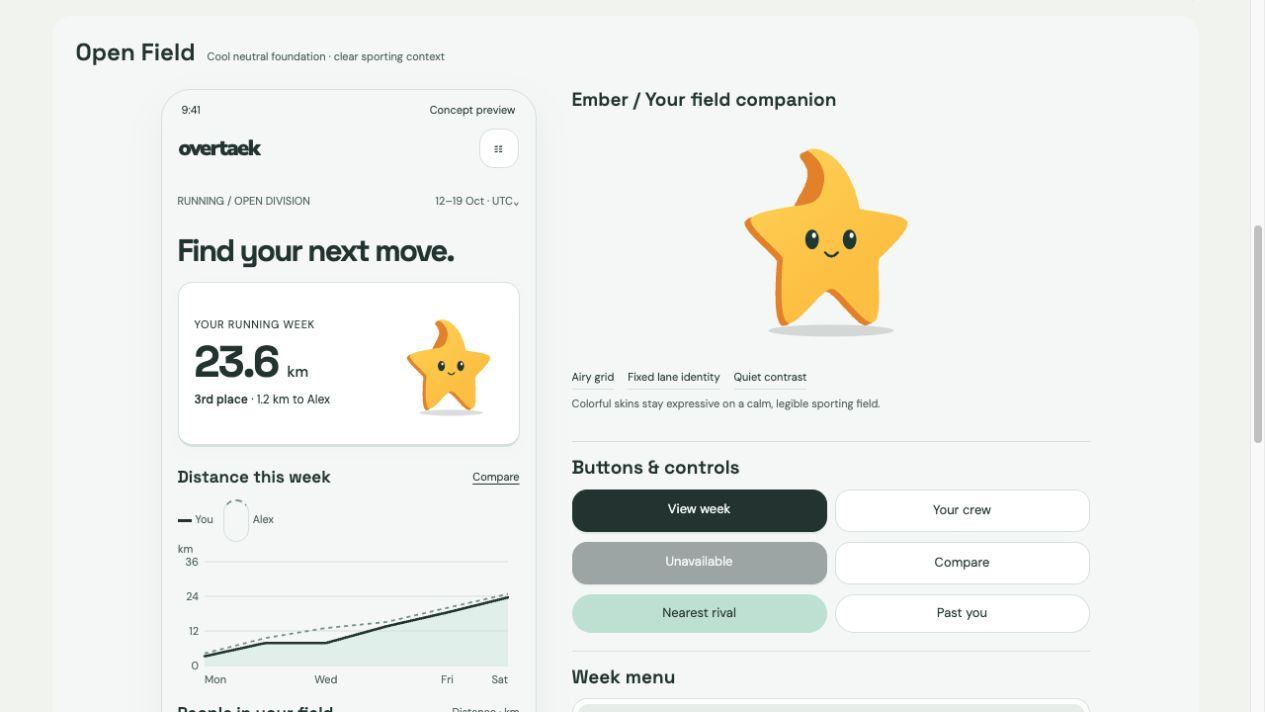
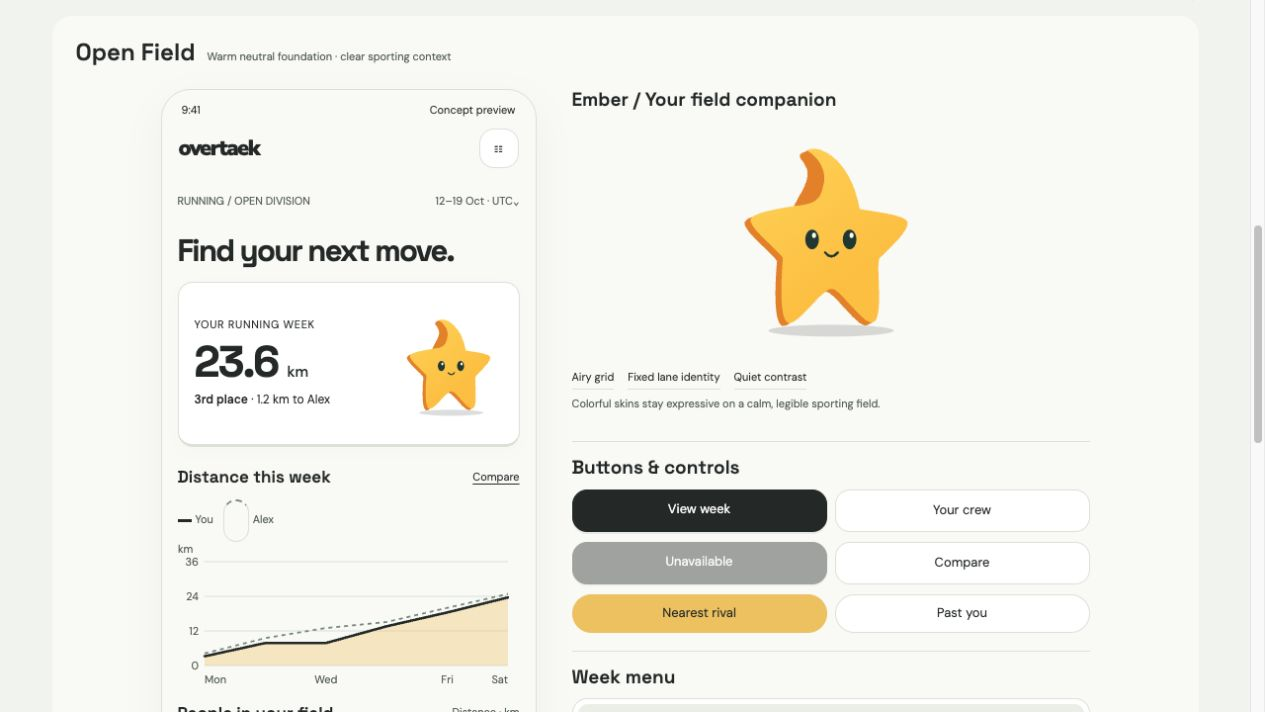
Select warm Open Field direction and document Ember motion strategy

Changed region(s): [[0.1542, 0.8343, 0.4008, 0.9579], [0.4316, 0.8343, 0.6783, 0.8961], [0.1542, 0.0618, 0.37, 0.0927]]

diff --git a/apps/web/src/app/design/_studies/brand-lab/catalog.ts b/apps/web/src/app/design/_studies/brand-lab/catalog.ts
@@ -239,26 +239,26 @@ export const BRAND_CONCEPTS: readonly BrandConcept[] = [
     traits: ["Quiet surfaces", "Soft depth", "Personal finishes"],
     role: "A warm, familiar companion whose skin belongs to the athlete.",
     recommendation:
-      "Recommended: Chain Reaction’s warmth, quieter surfaces, and a little tactile depth.",
+      "The warmer, softer comparison: familiar surfaces with a little tactile depth.",
   },
   {
     id: "open-field",
     name: "Open Field",
     family: "neutral",
     className: "open",
-    premise: "Cool neutral foundation · clear sporting context",
+    premise: "Warm neutral foundation · clear sporting context",
     headline: "Room for every\nversion of you.",
     heading: "Find your next move.",
     eyebrow: "YOUR RUNNING WEEK",
     rankTitle: "People in your field",
     chart: "area",
-    colors: ["#263c37", "#c4e5d7", "#f5f8f7", "#dfe9e4"],
+    colors: ["#282f2c", "#f1c75b", "#fafaf7", "#e6e8e1"],
     fonts: "DM Sans + Space Grotesk",
     emberName: "Your field companion",
     traits: ["Airy grid", "Fixed lane identity", "Quiet contrast"],
     role: "Colorful skins stay expressive on a calm, legible sporting field.",
     recommendation:
-      "The most sport-focused neutral option; the app stays composed as skins get brighter.",
+      "Selected direction: Open Field’s sporting structure with Everyday Club’s warm white, charcoal and gold.",
   },
   {
     id: "pocket-arena",
@@ -411,7 +411,7 @@ export const TERRITORY_ART: Record<string, string> = {
   "play-forward": "play",
   "chain-reaction": "chain",
 };
-export const DEFAULT_CONCEPT = "everyday-club";
+export const DEFAULT_CONCEPT = "open-field";
 export function getConcept(id: string | null | undefined): BrandConcept {
   return (
     BRAND_CONCEPTS.find((c) => c.id === id) ??

diff --git a/apps/web/src/app/design/_studies/brand-lab/brand-gallery.css b/apps/web/src/app/design/_studies/brand-lab/brand-gallery.css
@@ -291,7 +291,8 @@
     monospace;
 }
 .brand-preview .current,
-.brand-preview .everyday {
+.brand-preview .everyday,
+.brand-preview .open {
   --ot-bg: #fafaf7;
   --ot-surface: #fff;
   --ot-ink: #282f2c;
@@ -310,15 +311,6 @@
   --ot-signal: #f5c451;
 }
 .brand-preview .open {
-  --ot-bg: #f5f8f7;
-  --ot-surface: #fff;
-  --ot-ink: #263c37;
-  --ot-muted: #60736c;
-  --ot-signal: #c4e5d7;
-  --ot-on-signal: #263c37;
-  --ot-line: #dbe5df;
-  --ot-soft: #e9f0ec;
-  --ot-secondary: #7d9a8c;
   --ot-radius: 15px;
   --ot-display: var(--font-form), sans-serif;
 }

diff --git a/apps/web/src/app/design/_studies/brand-lab/catalog.test.ts b/apps/web/src/app/design/_studies/brand-lab/catalog.test.ts
@@ -36,7 +36,7 @@ describe("brand gallery review state", () => {
   });
   it("normalizes an unknown deep link without executing or reflecting it", () => {
     expect(parseSelection("<script>", "../../today")).toEqual({
-      concept: "everyday-club",
+      concept: "open-field",
       view: "product",
     });
     expect(parseSelection("chain-reaction", "locker")).toEqual({

diff --git a/docs/brand-study/brand-and-ember-studio.md b/docs/brand-study/brand-and-ember-studio.md
@@ -10,7 +10,7 @@ The [original ten-territory strategy](ten-territories.md) preserves the first-ph
 
 The user favours **Chain Reaction** and **Play Forward**, particularly the former's warmth and the latter's modest dimensionality. The complex, glossy Play Forward mascot is too elaborate for the desired default. The emerging direction is a broadly usable, calmer app with one recognizable star character and optional cosmetic finishes.
 
-The recommendation is **Everyday Club**: warm neutral surfaces, charcoal type, a small fixed golden accent, readable standings, and a little physical depth on key controls. The original Ember is the welcoming default. A personal Ember can become mint, lilac, violet or another finish without recoloring the navigation, affecting chart semantics or replacing the app's brand.
+The selected direction after review is **Open Field with Everyday Club’s palette**: warm neutral surfaces, charcoal type and a small fixed golden accent, combined with Open Field’s airy grid, comparison-first hierarchy and restrained controls. This is an evolution of the existing app rather than a wholesale visual reset. The gallery opens on this combination by default. The original Ember is the welcoming default. A personal Ember can become mint, lilac, violet or another finish without recoloring the navigation, affecting chart semantics or replacing the app's brand.
 
 This separates three decisions:
 
@@ -30,8 +30,8 @@ The ten territories are The Pass, After Hours, Rival Club, Good Pressure, Margin
 
 | Direction | Foundation | Distinctive behavior | Best reason to choose it |
 | --- | --- | --- | --- |
-| Everyday Club — recommended | Warm white, charcoal, small fixed gold accent | Soft controls, subtly raised surfaces, friendly hierarchy | Chain Reaction's human warmth with broad visual compatibility |
-| Open Field | Cool fog, pine type, restrained mint | Airy grid, comparison before standings, a clear sporting field | The most athletic and composed foundation |
+| Everyday Club | Warm white, charcoal, small fixed gold accent | Soft controls, subtly raised surfaces, friendly hierarchy | Chain Reaction's human warmth with broad visual compatibility |
+| Open Field — selected | Everyday Club’s warm white, charcoal and gold | Airy grid, comparison before standings, a clear sporting field | The most athletic and composed foundation |
 | Pocket Arena | Cloud white, charcoal-violet, quiet lavender | Slight button bevels and tactile hierarchy, with a simpler star | Play Forward's satisfying depth without its visual complexity |
 
 All three support the same skin collection. Changing the finish updates Ember in the hero and character preview while leaving product colors, distances, rank and chart meaning intact.
@@ -57,7 +57,7 @@ These are design precedents, not evidence that a particular skin system will imp
 
 ## Review paths
 
-- Recommended neutral default: `/design/brand?concept=everyday-club&view=product`
+- Recommended neutral default: `/design/brand?concept=open-field&view=product`
 - Current Ember: `/design/brand?concept=current-ember&view=product`
 - Pocket Arena locker: `/design/brand?concept=pocket-arena&view=locker`
 - Original Chain Reaction: `/design/brand?concept=chain-reaction&view=product`
@@ -83,3 +83,20 @@ Validation covers workspace typechecking, relevant study tests and the full test
 - [Ember locker with the simplified Arcade finish equipped](reviews/ember-locker-desktop.png).
 
 The initial sandboxed build could not resolve Google Fonts. Re-running with normal network access completed successfully. This required no project configuration or dependency changes.
+
+## Ember art and animation decision
+
+The preferred character references are **The Pass / Challenger**, **Marginal Gains** and **Higher Ground**. Preserve what makes their actual looks appealing: compact star proportions, rounded dimensional volume, a clean face and a confident expression. Color and material are adjustable; they need not define separate character anatomies.
+
+Recommended production art brief:
+
+- Use one recognizable five-point body, crest and face placement, with shared deformation controls. Challenger supplies the confident character; Marginal Gains supplies the restrained, softly beveled finish. Keep golden Ember as the default colorway.
+- Treat Higher Ground’s frosted blue as a cosmetic finish. Begin with opaque satin shading and restrained highlights; true refraction is optional, not required for the character to feel dimensional.
+- Keep facial features on a stable readable surface. Avoid tiny facets, floating accessories and painted highlights that fight the bend of a limb. Judge the silhouette at 32 and 64 px as well as in the large locker preview.
+- Before rebuilding a whole collection, prove one revised body with idle, run, a three-quarter turn and celebration. Check limb intersections, crest recovery, face stability, small-size readability, reduced motion and representative phones. Then apply gold, mint and frosted-blue finishes to the same motion.
+
+**Implemented today:** the locker recolors the existing procedural vector rig and reuses its motion. It does not animate the exact generated territory renders or replace the production character. The current rig provides art-directed depth and modest turns, not full 3D geometry or material simulation; see the [mascot model documentation](../mascot/README.md).
+
+**Recommended next decision:** refine the current 2.5D rig if the desired look can be expressed with controlled gradients, side planes and a fixed viewing range. If matching the sculpted renders, real side/back turns or changing light is essential, build one rigged 3D master and reuse its skeleton and expression controls across material variants. That requires modeling and motion validation, rather than animating a PNG. [Three.js glTF support](https://threejs.org/docs/pages/GLTFLoader.html) provides a delivery path for modeled scenes and animation; its [physical material documentation](https://threejs.org/docs/pages/MeshPhysicalMaterial.html) describes transmission and its higher rendering cost. Our preference for satin over real-time glass is an art and performance recommendation, not a measured device result.
+
+The complexity of a still render alone does not determine motion quality. Consistent geometry, a well-authored rig and restrained materials matter more. No new animation dependency or production skin entitlement is introduced by this decision.

diff --git a/docs/design-guide.md b/docs/design-guide.md
@@ -4,7 +4,7 @@ The selected production direction is **Focus**, with Trail's crew hierarchy and 
 
 ## Brand and character exploration
 
-The [Brand & Ember study](brand-study/brand-and-ember-studio.md) is available at `/design/brand` under the existing design access gate. It preserves ten brand territories, adds the current Ember in a Chain Reaction-inspired setting, and explores Everyday Club, Open Field and Pocket Arena as calmer foundations for customizable star finishes. The October 17 feedback favours Chain Reaction's warmth and Play Forward's depth with a simpler mascot. These remain proposals: Focus is still the production UI. The study locker uses local fictional ownership and proposed unlock examples; it does not establish production rewards, entitlement, scoring or storage rules.
+The [Brand & Ember study](brand-study/brand-and-ember-studio.md) is available at `/design/brand` under the existing design access gate. It preserves ten brand territories, adds the current Ember in a Chain Reaction-inspired setting, and explores Everyday Club, Open Field and Pocket Arena as calmer foundations for customizable star finishes. The October 17 review selects Open Field’s structure with Everyday Club’s warm white, charcoal and gold; it is the gallery default. Ember’s preferred art references are The Pass / Challenger, Marginal Gains and Higher Ground, with shared anatomy and adjustable finishes. These remain proposals: Focus is still the production UI. The study locker uses local fictional ownership and proposed unlock examples; it does not establish production rewards, entitlement, scoring or storage rules.
 
 ## Shared visual language
 
